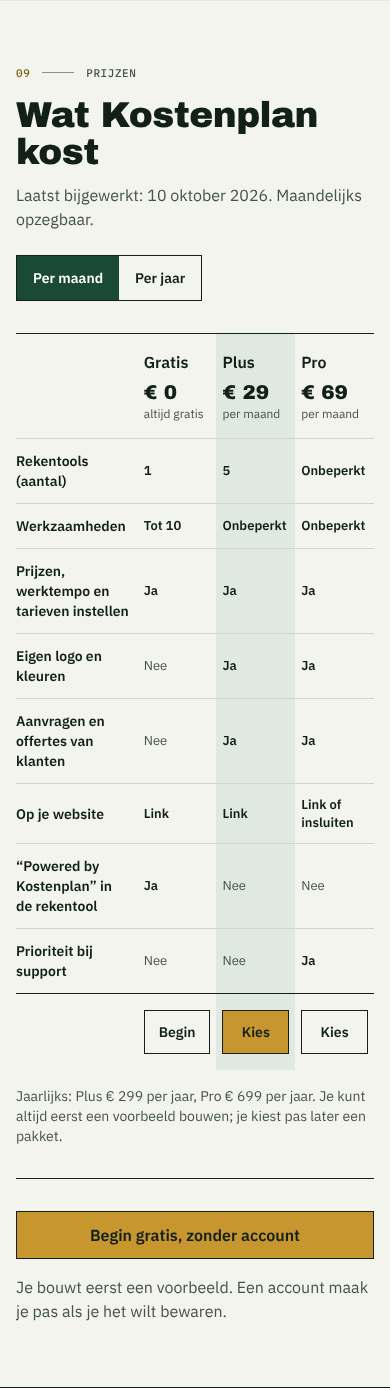
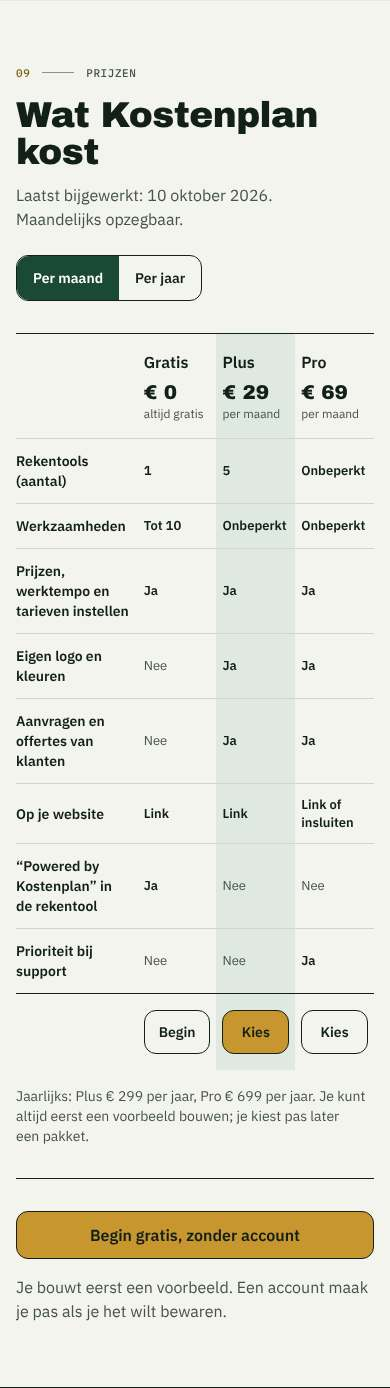
Landing: zachtere hoeken op containers en knoppen, geen nagebootste radiogroep, touch-action, theme-color en color-scheme (#45)
Claude-Session: https://claude.ai/code/session_01HFvD2smTdENKXghem5TyYa

diff --git a/app/components/landing/sectie-zo-werkt-het.tsx b/app/components/landing/sectie-zo-werkt-het.tsx
@@ -12,7 +12,7 @@ const GEKOZEN = ["bestrating", "schutting", "graszoden"];
 function Beeld1() {
   const lijst = HOVENIER_PRESETS.slice(0, 6);
   return (
-    <div className="border-[1.5px] border-lp-inkt bg-lp-wit">
+    <div className="overflow-hidden rounded-xl border-[1.5px] border-lp-inkt bg-lp-wit">
       <p className="border-b-[1.5px] border-lp-inkt bg-lp-inkt px-4 py-2.5 font-lp-maat text-[11px] uppercase tracking-wider text-lp-papier">Kies wat je doet</p>
       <ul className="divide-y divide-lp-lijn">
         {lijst.map((p) => {
@@ -20,7 +20,7 @@ function Beeld1() {
           const Icoon = PRODUCT_ICONS[p.icoon];
           return (
             <li key={p.id} className={`flex min-h-14 items-center gap-3 px-4 ${aan ? "bg-lp-bos-100" : ""}`}>
-              <span aria-hidden="true" className={`flex h-6 w-6 shrink-0 items-center justify-center border-[1.5px] border-lp-inkt ${aan ? "bg-lp-bos-800 text-white" : "bg-lp-wit"}`}>
+              <span aria-hidden="true" className={`flex h-6 w-6 shrink-0 items-center justify-center rounded-md border-[1.5px] border-lp-inkt ${aan ? "bg-lp-bos-800 text-white" : "bg-lp-wit"}`}>
                 {aan && <Check className="h-4 w-4" />}
               </span>
               {Icoon && <Icoon className="h-5 w-5 shrink-0 text-lp-bos-800" aria-hidden="true" />}
@@ -37,7 +37,7 @@ function Beeld1() {
 function Beeld2() {
   const p = HOVENIER_PRESETS.find((x) => x.id === "bestrating")!;
   return (
-    <div className="border-[1.5px] border-lp-inkt bg-lp-wit">
+    <div className="overflow-hidden rounded-xl border-[1.5px] border-lp-inkt bg-lp-wit">
       <p className="border-b-[1.5px] border-lp-inkt bg-lp-inkt px-4 py-2.5 font-lp-maat text-[11px] uppercase tracking-wider text-lp-papier">Bestrating / terras · jouw prijzen</p>
       <table className="w-full text-base">
         <caption className="sr-only">Materialen en prijzen per m²</caption>
@@ -52,7 +52,7 @@ function Beeld2() {
             <tr key={m.naam}>
               <th scope="row" className="px-4 py-3 text-left font-semibold">
                 {m.naam}
-                <span className="ml-2 bg-lp-oker-licht px-1.5 py-0.5 align-middle font-lp-maat text-[10px] uppercase text-lp-inkt">voorbeeld</span>
+                <span className="ml-2 rounded-sm bg-lp-oker-licht px-1.5 py-0.5 align-middle font-lp-maat text-[10px] uppercase text-lp-inkt">voorbeeld</span>
               </th>
               <td className="px-4 py-3 text-right">€ {m.prijs},00</td>
             </tr>
@@ -75,7 +75,7 @@ function Beeld2() {
 
 function Beeld3() {
   return (
-    <div className="border-[1.5px] border-lp-inkt bg-lp-wit">
+    <div className="overflow-hidden rounded-xl border-[1.5px] border-lp-inkt bg-lp-wit">
       <div className="flex items-center gap-2 border-b-[1.5px] border-lp-inkt bg-lp-papier-2 px-4 py-2.5 font-lp-maat text-[11px] text-lp-inkt-2">
         <span aria-hidden="true" className="h-2 w-2 bg-lp-inkt-2" />
         jouwbedrijf.nl/rekentool
@@ -86,12 +86,12 @@ function Beeld3() {
           <div className="mt-2 flex flex-col gap-2" aria-hidden="true">
             <span className="h-3 w-3/4 bg-lp-lijn" />
             <span className="h-3 w-1/2 bg-lp-lijn" />
-            <span className="mt-1 flex h-24 items-center justify-center border-[1.5px] border-dashed border-lp-bos-800 font-lp-maat text-[11px] uppercase text-lp-bos-800">hier staat je rekentool</span>
+            <span className="mt-1 flex h-24 items-center justify-center rounded-lg border-[1.5px] border-dashed border-lp-bos-800 font-lp-maat text-[11px] uppercase text-lp-bos-800">hier staat je rekentool</span>
           </div>
         </div>
         <div>
           <p className="font-lp-maat text-[11px] uppercase tracking-wider text-lp-inkt-2">Pro: plak één stukje code</p>
-          <pre className="mt-2 overflow-x-auto bg-lp-bos-950 p-3 font-lp-maat text-[11px] leading-relaxed text-lp-bos-100">{`<iframe
+          <pre className="mt-2 overflow-x-auto rounded-lg bg-lp-bos-950 p-3 font-lp-maat text-[11px] leading-relaxed text-lp-bos-100">{`<iframe
   src="https://…"
   title="Rekentool"
   width="100%"

diff --git a/app/components/landing/huisstijl-vergelijk.tsx b/app/components/landing/huisstijl-vergelijk.tsx
@@ -19,7 +19,7 @@ export function HuisstijlVergelijk() {
   return (
     <div className="grid gap-8 lg:grid-cols-[minmax(0,5fr)_minmax(0,7fr)] lg:gap-14">
       <div>
-        <div role="radiogroup" aria-label="Kies een voorbeeldbedrijf" className="flex flex-col border-t-[1.5px] border-lp-inkt">
+        <div role="group" aria-label="Kies een voorbeeldbedrijf" className="flex flex-col border-t-[1.5px] border-lp-inkt">
           {MERKEN.map((id) => {
             const s = STIJLEN[id];
             const aan = id === merk;
@@ -27,22 +27,21 @@ export function HuisstijlVergelijk() {
               <button
                 key={id}
                 type="button"
-                role="radio"
-                aria-checked={aan}
+                aria-pressed={aan}
                 onClick={() => setMerk(id)}
                 className={cn(
                   "flex min-h-16 cursor-pointer items-center gap-4 border-b-[1.5px] border-lp-inkt px-1 py-3 text-left transition-colors",
                   aan ? "bg-lp-papier-2" : "hover:bg-lp-papier-2/60"
                 )}
               >
-                <span aria-hidden="true" className="flex h-11 w-11 shrink-0 items-center justify-center font-serif text-2xl font-bold text-white" style={{ backgroundColor: s.kleur }}>
+                <span aria-hidden="true" className="flex h-11 w-11 shrink-0 items-center justify-center rounded-lg font-serif text-2xl font-bold text-white" style={{ backgroundColor: s.kleur }}>
                   {s.letter}
                 </span>
                 <span className="min-w-0 flex-1">
                   <span className="block text-base font-bold">{s.naam}</span>
                   <span className="block font-lp-maat text-[11px] uppercase tracking-wider text-lp-inkt-2">{s.site} · voorbeeld</span>
                 </span>
-                <span aria-hidden="true" className="h-5 w-5 shrink-0 border-[1.5px] border-lp-inkt" style={{ backgroundColor: aan ? s.kleur : "transparent" }} />
+                <span aria-hidden="true" className="h-5 w-5 shrink-0 rounded-md border-[1.5px] border-lp-inkt" style={{ backgroundColor: aan ? s.kleur : "transparent" }} />
               </button>
             );
           })}
@@ -57,10 +56,10 @@ export function HuisstijlVergelijk() {
 
       <div>
         <div className="mb-2 flex justify-between gap-2 font-lp-maat text-[11px] uppercase tracking-wider">
-          <span className="bg-lp-inkt px-2 py-1 text-lp-papier">Voor · zonder huisstijl</span>
-          <span className="bg-lp-oker px-2 py-1 text-lp-inkt">Na · jouw huisstijl</span>
+          <span className="rounded-md bg-lp-inkt px-2 py-1 text-lp-papier">Voor · zonder huisstijl</span>
+          <span className="rounded-md bg-lp-oker px-2 py-1 text-lp-inkt">Na · jouw huisstijl</span>
         </div>
-        <div className="relative h-[520px] overflow-hidden border-[1.5px] border-lp-inkt bg-lp-wit">
+        <div className="relative h-[520px] overflow-hidden rounded-xl border-[1.5px] border-lp-inkt bg-lp-wit">
           <iframe
             src="/demo/rekentool/standaard"
             title="Voor: een rekentool zonder eigen huisstijl"

diff --git a/app/components/landing/hero-demo.tsx b/app/components/landing/hero-demo.tsx
@@ -18,7 +18,7 @@ const DEMO_SRC = "/demo/rekentool/groenhof";
 const DEMO_TITEL = "Voorbeeld van een rekentool op de website van Groenhof Tuinen, een fictief hoveniersbedrijf";
 const geenAbonnement = () => () => {};
 const veld =
-  "h-11 w-full min-w-0 rounded-none border-[1.5px] border-lp-rand bg-lp-wit px-2.5 text-base tabular-nums text-lp-inkt text-right";
+  "h-11 w-full min-w-0 rounded-lg border-[1.5px] border-lp-rand bg-lp-wit px-2.5 text-base tabular-nums text-lp-inkt text-right";
 
 function wijzigDraft(d: Draft, fn: (c: Draft) => void): Draft {
   const kopie = structuredClone(d);
@@ -97,7 +97,7 @@ export function HeroDemo() {
       <MaatV label="jouw rekentool" className="hidden min-h-[30rem] sm:flex" />
       <div className="col-span-2 min-w-0 sm:col-span-1">
         <div className={cn("mb-3 flex items-center justify-between gap-3", !js && "invisible")} aria-hidden={!js}>
-          <div role="group" aria-label="Kijk mee vanuit" className="inline-flex border-[1.5px] border-lp-inkt">
+          <div role="group" aria-label="Kijk mee vanuit" className="inline-flex overflow-hidden rounded-lg border-[1.5px] border-lp-inkt">
             {(
               [
                 ["klant", "Wat je klant ziet"],
@@ -119,7 +119,7 @@ export function HeroDemo() {
           <span className="hidden font-lp-maat text-[11px] uppercase tracking-wider text-lp-inkt-2 sm:inline">Voorbeeld · fictief bedrijf</span>
         </div>
 
-        <div className="relative h-[620px] border-[1.5px] border-lp-inkt bg-lp-wit">
+        <div className="relative h-[620px] overflow-hidden rounded-xl border-[1.5px] border-lp-inkt bg-lp-wit">
           {bron ? (
             <iframe ref={frame} src={bron} title={DEMO_TITEL} className={cn("h-full w-full border-0", kant === "beheer" && "invisible")} />
           ) : (
@@ -143,7 +143,7 @@ export function HeroDemo() {
                     type="button"
                     aria-pressed={actief === i}
                     onClick={() => setActief(i)}
-                    className={cn("min-h-11 cursor-pointer border-[1.5px] border-lp-inkt px-3 text-sm font-semibold", actief === i ? "bg-lp-inkt text-lp-papier" : "bg-lp-wit text-lp-inkt hover:bg-lp-papier-2")}
+                    className={cn("min-h-11 cursor-pointer rounded-lg border-[1.5px] border-lp-inkt px-3 text-sm font-semibold", actief === i ? "bg-lp-inkt text-lp-papier" : "bg-lp-wit text-lp-inkt hover:bg-lp-papier-2")}
                   >
                     {x.draft.naam}
                   </button>
@@ -192,7 +192,7 @@ export function HeroDemo() {
                 </label>
               </div>
 
-              <KostenOpbouwKaart className="mt-5 rounded-none" opbouw={opbouw} eenheid={eenheid} stap="DAGDEEL" />
+              <KostenOpbouwKaart className="mt-5 rounded-xl" opbouw={opbouw} eenheid={eenheid} stap="DAGDEEL" />
               <p className="mt-3 text-sm text-lp-inkt-2">Ga terug naar “Wat je klant ziet”: de prijs in de rekentool is meegerekend. Voorbeeldprijzen, pas ze aan naar de jouwe.</p>
             </div>
           )}

diff --git a/app/components/landing/sectie-aanvragen.tsx b/app/components/landing/sectie-aanvragen.tsx
@@ -47,7 +47,7 @@ export function SectieAanvragen() {
         </div>
 
         {/* Inbox · werkbon · conceptofferte, één breed werkblad */}
-        <div className="mt-10 grid border-[1.5px] border-lp-inkt bg-lp-wit lg:grid-cols-[minmax(0,3fr)_minmax(0,4fr)_minmax(0,4fr)]">
+        <div className="mt-10 grid overflow-hidden rounded-xl border-[1.5px] border-lp-inkt bg-lp-wit lg:grid-cols-[minmax(0,3fr)_minmax(0,4fr)_minmax(0,4fr)]">
           <div className="border-b-[1.5px] border-lp-inkt lg:border-b-0 lg:border-r-[1.5px]">
             <p className="border-b-[1.5px] border-lp-inkt bg-lp-inkt px-4 py-2.5 font-lp-maat text-[11px] uppercase tracking-wider text-lp-papier">Jouw aanvragen · voorbeeld</p>
             <ul>
@@ -69,7 +69,7 @@ export function SectieAanvragen() {
           <div className="border-b-[1.5px] border-lp-inkt p-5 sm:p-6 lg:border-b-0 lg:border-r-[1.5px]">
             <div className="flex items-center justify-between gap-3">
               <h3 className="text-xl font-bold">Nieuwe aanvraag</h3>
-              <span className="bg-lp-oker px-2 py-1 font-lp-maat text-[11px] uppercase tracking-wider">Nieuw</span>
+              <span className="rounded-md bg-lp-oker px-2 py-1 font-lp-maat text-[11px] uppercase tracking-wider">Nieuw</span>
             </div>
             <dl className="mt-4 divide-y divide-lp-lijn border-y border-lp-lijn text-sm">
               {[
@@ -92,7 +92,7 @@ export function SectieAanvragen() {
           </div>
 
           <div className="bg-lp-staal p-5 sm:p-6">
-            <div className="mx-auto max-w-sm border-[1.5px] border-lp-inkt bg-lp-wit p-4 shadow-[6px_6px_0_0_var(--lp-lijn)]">
+            <div className="mx-auto max-w-sm rounded-lg border-[1.5px] border-lp-inkt bg-lp-wit p-4 shadow-[0_14px_28px_-16px_rgba(19,32,26,0.45)]">
               <div className="flex items-baseline justify-between gap-2">
                 <p className="font-lp-display text-lg font-extrabold">Offerte</p>
                 <p className="font-lp-maat text-[11px] uppercase tracking-wider text-lp-oker-donker">Concept</p>

diff --git a/app/components/landing/website-invoer.tsx b/app/components/landing/website-invoer.tsx
@@ -43,12 +43,12 @@ export function WebsiteInvoer({ bron, op = "licht", className }: { bron: KlikBro
           placeholder="jouwbedrijf.nl"
           aria-invalid={fout ? true : undefined}
           aria-describedby={`${id}-hulp`}
-          className="h-12 w-full min-w-0 rounded-none sm:flex-1 border-[1.5px] border-lp-rand bg-lp-wit px-3 text-base text-lp-inkt placeholder:text-lp-inkt-2"
+          className="h-12 w-full min-w-0 rounded-lg sm:flex-1 border-[1.5px] border-lp-rand bg-lp-wit px-3 text-base text-lp-inkt placeholder:text-lp-inkt-2"
         />
         <button
           type="submit"
           className={cn(
-            "h-12 cursor-pointer whitespace-nowrap border-[1.5px] px-5 text-base font-semibold",
+            "h-12 cursor-pointer whitespace-nowrap rounded-lg border-[1.5px] px-5 text-base font-semibold",
             "border-lp-bos-900 bg-lp-bos-900 text-white hover:bg-lp-bos-950"
           )}
         >

diff --git a/app/components/landing/sectie-klantervaring.tsx b/app/components/landing/sectie-klantervaring.tsx
@@ -33,8 +33,8 @@ export function SectieKlantervaring() {
         </div>
 
         <div className="mx-auto w-full max-w-[22rem]">
-          <div className="border-[3px] border-lp-bos-700 bg-lp-bos-900 p-2.5 [border-radius:2.25rem]">
-            <div className="overflow-hidden bg-lp-wit [border-radius:1.6rem]">
+          <div className="rounded-[2.25rem] border-[3px] border-lp-bos-700 bg-lp-bos-900 p-2.5">
+            <div className="overflow-hidden rounded-[1.6rem] bg-lp-wit">
               <div className="flex items-center gap-2 bg-lp-papier-2 px-3 py-2 font-lp-maat text-[11px] text-lp-inkt-2">
                 <span aria-hidden="true" className="h-1.5 w-1.5 bg-lp-inkt-2" />
                 <span className="truncate">{s.site}/rekentool</span>

diff --git a/app/page.tsx b/app/page.tsx
@@ -1,4 +1,4 @@
-import type { Metadata } from "next";
+import type { Metadata, Viewport } from "next";
 import Link from "next/link";
 import { lpFontClasses } from "@/app/components/landing/fonts";
 import "@/app/components/landing/landing.css";
@@ -23,6 +23,8 @@ import { DEFINITIE, KOPREGEL, WEBSITEBOUWERS } from "@/app/lib/landing/feiten";
 
 const TITLE = "Prijscalculator voor hoveniers | Kostenplan";
 const DESCRIPTION = "Online rekentool voor hoveniers: je klanten berekenen zelf de prijs van een schutting, terras of gazon en sturen een aanvraag. Gratis proberen.";
+
+export const viewport: Viewport = { themeColor: "#f3f4ee", colorScheme: "light" };
 
 export const metadata: Metadata = {
   title: { absolute: TITLE },

diff --git a/app/components/landing/landing.css b/app/components/landing/landing.css
@@ -3,6 +3,7 @@
   font-family: var(--font-lp-tekst);
   color: var(--lp-inkt);
   background: var(--lp-papier);
+  color-scheme: light;
   /* Hergebruikte app-componenten (bijv. de kostenopbouw) nemen de landingskleuren over. */
   --background: var(--lp-papier);
   --foreground: var(--lp-inkt);
@@ -154,4 +155,16 @@
 .lp .font-lp-display {
   font-weight: 400 !important;
   font-synthesis: none;
+}
+
+/* Aanraken: geen vertraging of dubbeltik-zoom op knoppen en links. */
+.lp a,
+.lp button,
+.lp label,
+.lp input[type="range"] {
+  touch-action: manipulation;
+}
+.lp p,
+.lp li {
+  text-wrap: pretty;
 }

diff --git a/app/components/landing/cta-link.tsx b/app/components/landing/cta-link.tsx
@@ -34,7 +34,7 @@ export function CtaLink({
       href={href}
       onClick={() => trackKlik(bron, actie, pakket ? { pakket } : undefined)}
       className={cn(
-        "inline-flex min-h-12 items-center justify-center gap-2 border-[1.5px] px-6 py-2 text-center text-base font-semibold transition-colors duration-150",
+        "inline-flex min-h-12 items-center rounded-lg justify-center gap-2 border-[1.5px] px-6 py-2 text-center text-base font-semibold transition-colors duration-150",
         STIJL[stijl],
         className
       )}

diff --git a/app/components/landing/lp-header.tsx b/app/components/landing/lp-header.tsx
@@ -14,7 +14,7 @@ export function LpHeader() {
     <header className="border-b-[1.5px] border-lp-inkt bg-lp-papier">
       <div className="mx-auto flex max-w-7xl items-center justify-between gap-3 px-4 py-3 sm:px-6">
         <Link href="/" className="flex shrink-0 items-center gap-2.5 font-lp-display text-xl font-extrabold [font-stretch:112%]">
-          <Logo className="rounded-none" />
+          <Logo />
           Kostenplan
         </Link>
         <nav aria-label="Op deze pagina" className="hidden items-center gap-1 lg:flex">

diff --git a/app/components/landing/probleem-model.tsx b/app/components/landing/probleem-model.tsx
@@ -17,7 +17,7 @@ export function ProbleemModel() {
   const werkdagen = uren / 8;
 
   return (
-    <div className="border-[1.5px] border-lp-inkt bg-lp-wit">
+    <div className="overflow-hidden rounded-xl border-[1.5px] border-lp-inkt bg-lp-wit">
       <div className="flex items-center justify-between border-b-[1.5px] border-lp-inkt bg-lp-inkt px-4 py-2.5 font-lp-maat text-[11px] uppercase tracking-wider text-lp-papier">
         <span>Werkbon · jouw avonden</span>
         <span>Schuif naar jouw cijfers</span>

diff --git a/app/components/landing/sectie-prijzen.tsx b/app/components/landing/sectie-prijzen.tsx
@@ -20,7 +20,7 @@ export function SectiePrijzen() {
               Laatst bijgewerkt: <time dateTime={LAATST_BIJGEWERKT.iso}>{LAATST_BIJGEWERKT.tekst}</time>. Maandelijks opzegbaar.
             </p>
           </div>
-          <fieldset className="border-[1.5px] border-lp-inkt">
+          <fieldset className="overflow-hidden rounded-lg border-[1.5px] border-lp-inkt">
             <legend className="sr-only">Betaalperiode</legend>
             <div className="flex">
               {[
